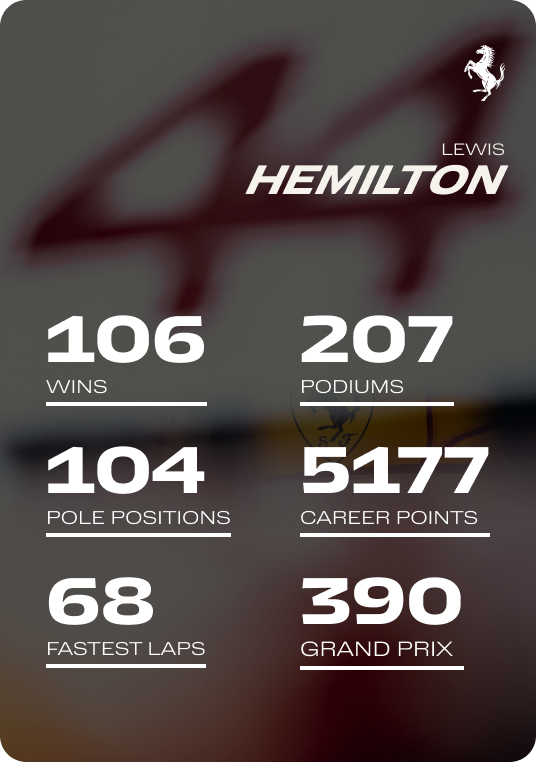
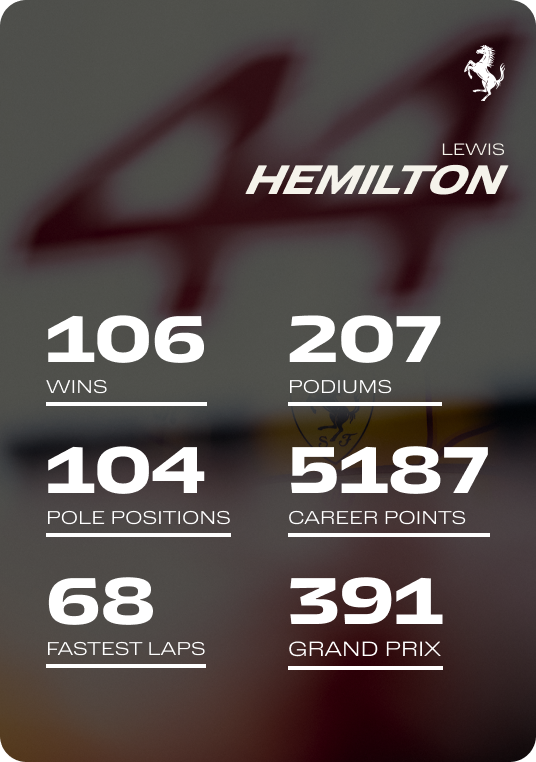
0730

diff --git a/data/gpSections.js b/data/gpSections.js
@@ -1,28 +1,5 @@
 export const gpSections = [
     {
-        id: "hungary",
-        title: "HUNGARY",
-        circuit: "images/gp/hungary.avif",
-        month: "JUL",
-        day1: "Practice 1",
-        date1: "24",
-        time1: "20:30 - 21:30",
-        day2: "Practice 2",
-        date2: "25",
-        time2: "00:00 - 01:00",
-        day3: "Practice 3",
-        date3: "25",
-        time3: "19:30 - 20:30",
-        day4: "Qualifying",
-        date4: "25",
-        time4: "23:00 - 00:00",
-        day5: "Race",
-        date5: "26",
-        time5: "22:00",
-        subDate: "24 - 25 JUL",
-        subImg: "images/gp/hungarySub.png",
-    },
-    {
         id: "netherlands",
         title: "NETHERLANDS",
         circuit: "images/gp/netherlands.avif",
@@ -67,5 +44,28 @@ export const gpSections = [
         time5: "22:00",
         subDate: "04 - 06 SEP",
         subImg: "images/gp/italySub.png",
+    },
+    {
+        id: "spain",
+        title: "SPAIN",
+        circuit: "images/gp/spain.avif",
+        month: "SEP",
+        day1: "Practice 1",
+        date1: "11",
+        time1: "20:30 - 21:30",
+        day2: "Practice 2",
+        date2: "12",
+        time2: "00:00 - 01:00",
+        day3: "Practice 3",
+        date3: "12",
+        time3: "19:30 - 20:30",
+        day4: "Qualifying",
+        date4: "12",
+        time4: "23:00 - 00:00",
+        day5: "Race",
+        date5: "13",
+        time5: "22:00",
+        subDate: "11 - 13 SEP",
+        subImg: "images/gp/spainSub.png",
     }
 ]
